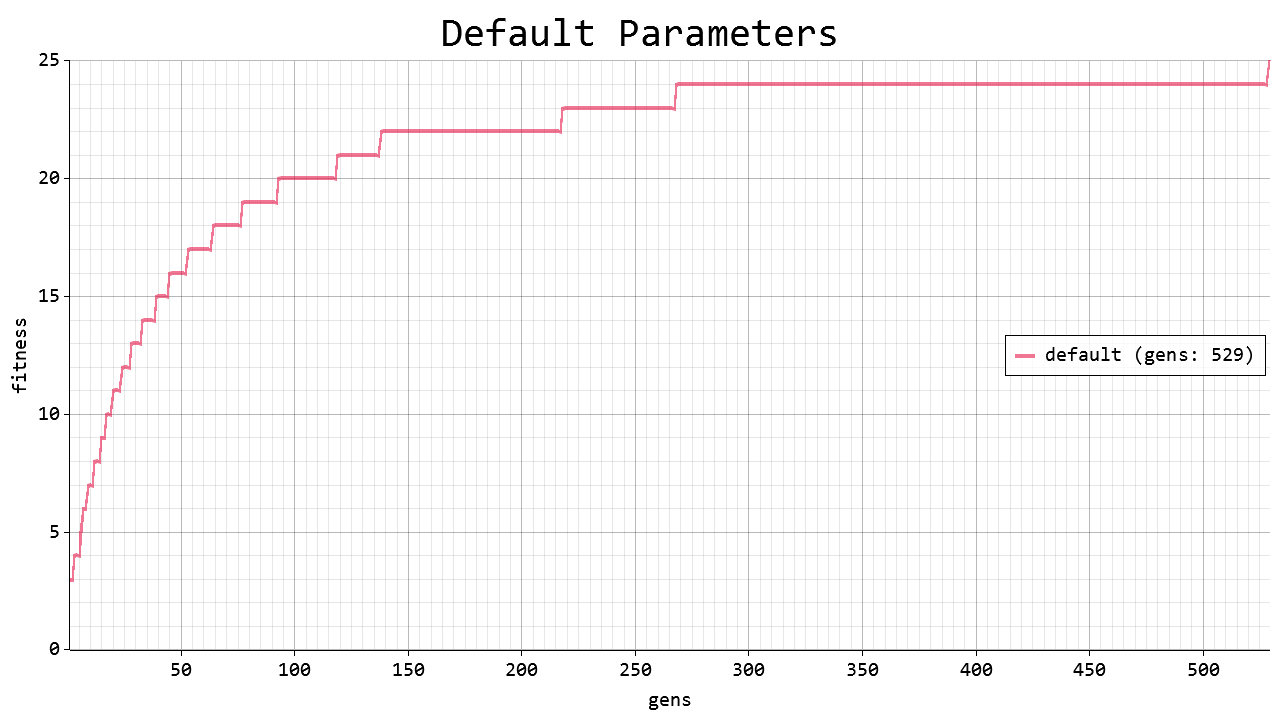
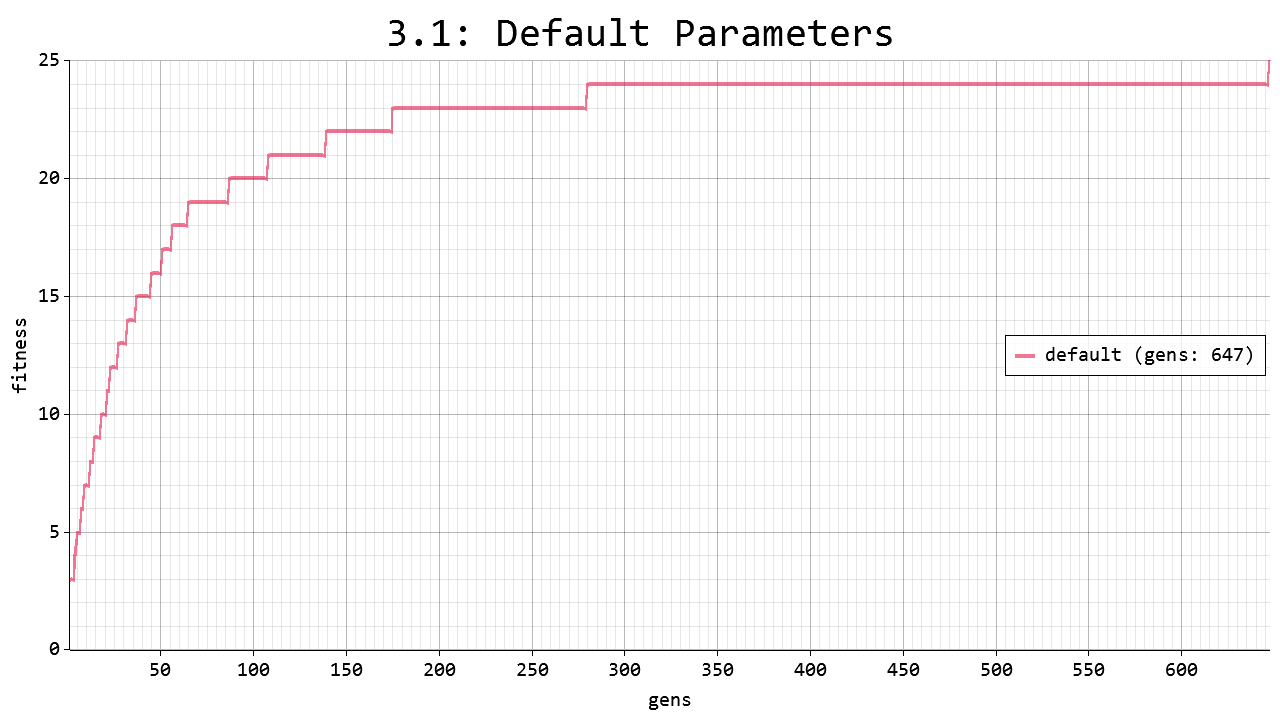
regenerated graphs

diff --git a/project01/src/main.rs b/project01/src/main.rs
@@ -30,7 +30,7 @@ const OUT_BEST_OF_EACH: (&'static str, bool) = ("output/best_of_each_varied_parm
 // Unchanging simulation parameters
 const STRAND_SIZE: usize = 100;
 const POPULATION_SIZE: usize = 256;
-const GENERATION_LIMIT: u64 = 16384; // 2^14
+const GENERATION_LIMIT: u64 = 16_384; // 2^14
 const BATCH_SIZE: u64 = 16;
 
 // The Parameter struct defines the changing parameters need to run a simulation
@@ -603,38 +603,39 @@ fn main() {
 
     let start_time = Instant::now();
 
-    generate_graph_from_variation("Default Parameters", Variation::Default, OUT_DEFAULT).unwrap();
+    generate_graph_from_variation("3.1: Default Parameters", Variation::Default, OUT_DEFAULT)
+        .unwrap();
 
     generate_graph_from_variation(
-        "Various Numbers of Individuals Per Parent",
+        "3.2: Various Numbers of Individuals Per Parent",
         Variation::NumIdiv(vec![2, 4, 8, 16, 32, 64, 128]),
         OUT_VAR_NUM_INDIV,
     )
     .unwrap();
 
     generate_graph_from_variation(
-        "Various Selection Ratios",
+        "3.3: Various Selection Ratios",
         Variation::Selection(vec![0.25, 0.5, 1.0, 2.0, 4.0, 8.0]),
         OUT_VAR_SELECTION,
     )
     .unwrap();
 
     generate_graph_from_variation(
-        "Various Mutation Rates",
+        "3.4: Various Mutation Rates",
         Variation::Mutation(vec![0.001, 0.005, 0.01, 0.025, 0.05]),
         OUT_VAR_MUTATION,
     )
     .unwrap();
 
     generate_graph_from_variation(
-        "Various Reinsertion Ratios",
+        "3.5: Various Reinsertion Ratios",
         Variation::Reinsertion(vec![0.01, 0.1, 0.25, 0.5, 0.75, 0.9]),
         OUT_VAR_REINSERTION,
     )
     .unwrap();
 
     generate_graph_from_variation(
-        "Using Best Value of Each Varied Parameter",
+        "3.6: Using Best Value of Each Varied Parameter",
         Variation::BestOfEach,
         OUT_BEST_OF_EACH,
     )
